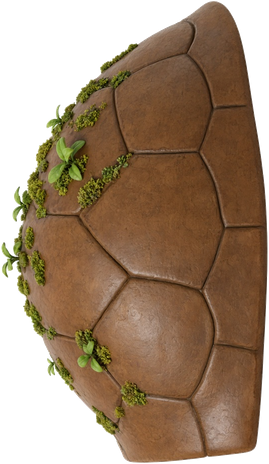
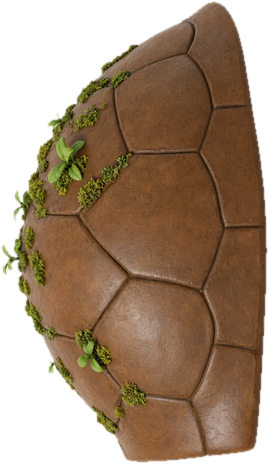
단단: 등껍질을 등 뒤로 오프셋·확대, 가장자리 정리

diff --git a/characters/dandan/rig.js b/characters/dandan/rig.js
@@ -4,7 +4,7 @@ import {cap,legDrawer,armPiece} from '../common/cutout.js';
 import {applyKeys,smear} from '../common/keypose.js';
 const GRIP=[5,82];
 const DAN={name:'단단',key:'dandan',Tc:.44,stride:64,lift:24,legLen:100,armSwing:.7,shadow:92,torsoDY:6,neck:[-4,-148],propLag:.5,
- P:{torso:{f:'dandan/torso',p:[100,226],s:.75,flip:true},head:{f:'dandan/head',p:[200,198],s:.68},shell:{f:'dandan/shell_side',p:[262,232],s:.42},
+ P:{torso:{f:'dandan/torso',p:[100,226],s:.75,flip:true},head:{f:'dandan/head',p:[200,198],s:.68},shell:{f:'dandan/shell_side',p:[262,232],s:.5},
   arm:{f:'dandan/arm',p:[50,18],s:.62},armW:{f:'dandan/arm_w',p:[56,16],s:.62},foot:{f:'dandan/foot',p:[58,24],s:.55},foot2:{f:'dandan/foot2',p:[62,22],s:.55},
   coil:{f:'dandan/coil',p:[96,34],s:.42},lasso:{f:'dandan/lasso',p:[90,20],s:.42}},
  leg:{hipF:[26,-8],hipB:[-20,-10],knee:[0,20],ankle:[0,18],sole:[0,62]},
@@ -16,7 +16,7 @@ const DAN={name:'단단',key:'dandan',Tc:.44,stride:64,lift:24,legLen:100,armSwi
    ctx.save();ctx.translate(o.hx,o.hy+60);ctx.rotate(o.shellRot||0);ctx.scale(1.05+.1*(o.shellSq||0),1.05-.15*(o.shellSq||0));ctx.rotate(Math.PI/2);D({f:'dandan/shell_side',p:[250,232],s:.5});ctx.restore();return}
   // 뒷팔(먼 쪽) → 등껍질 → 다리 → 몸통 → 머리 → 앞팔. 등껍질은 몸통 프레임에만 붙음 (몸 흔들림·기울기만 따라감, 팔과 무관)
   ctx.save();c.torsoFrame();armPiece(h.P.armW,[-18,-128],o.shB,1);ctx.restore();
-  ctx.save();c.torsoFrame();ctx.translate(-22,-84);ctx.rotate(.04+(o.shellTilt||0));D(h.P.shell);ctx.restore();
+  ctx.save();c.torsoFrame();ctx.translate(-44,-92);ctx.rotate(.12+(o.shellTilt||0));D(h.P.shell);ctx.restore();
   legDraw(hipB,gB,1);legDraw(hipF,gF,0);c.torso();
   if(K>0){ctx.save();ctx.translate(0,K*60);c.head();ctx.restore()}else c.head();
   ctx.save();c.torsoFrame();const coil=o.noCoil?null:()=>{D(h.P.coil)};ch.mats.handF=armPiece(h.P.arm,[40,-126],o.shF,0,GRIP,coil,o.propA);ctx.restore()},
